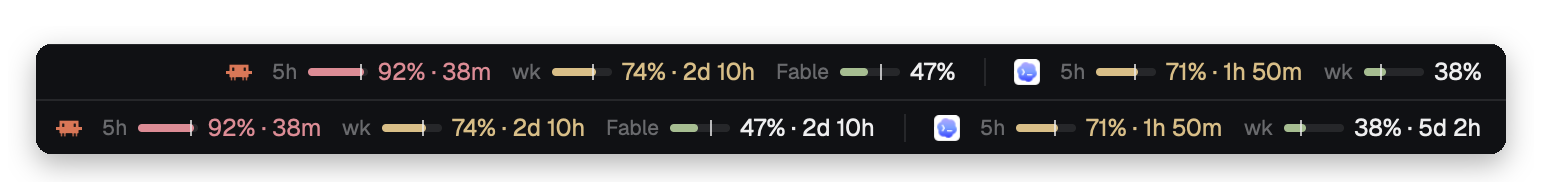
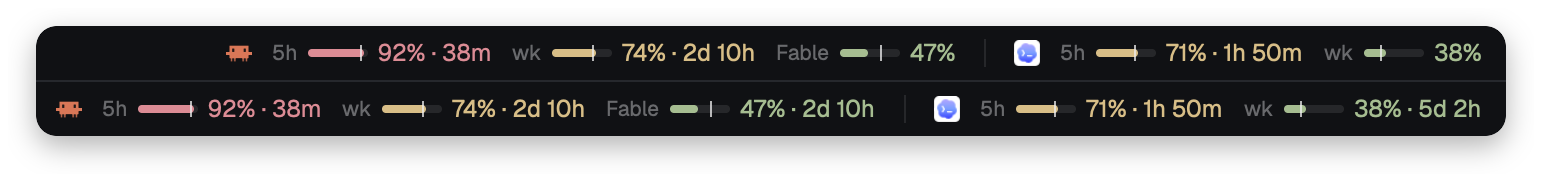
docs: new screenshots for the denser panel and colored percents
Claude-Session: https://claude.ai/code/session_01RxGX2diawmGKELtVSzaZVm

diff --git a/RECIPE.md b/RECIPE.md
@@ -20,15 +20,15 @@ It never reads a token.
   - a 30×4px bar, track `border`, fill = percent used;
   - a 1×8px `foreground` tick at 75% opacity = how much of the window's time
     has passed (pace);
-  - the percent in `foreground`.
+  - the percent in its color.
 - Colors by percent: under 70 `ansi2` (green), 70–89 `ansi3` (amber), 90+
   `ansi1` (red). Amber and red also color the text and add the time to reset:
   `92% · 38m`, `74% · 2d 10h`. With "Always show time to reset" ticked, green
   windows add it too.
 - Hover the limits: one panel above the bar, the only way in (no click), right-aligned, after 350 ms. Each
-  provider with its plan and "updated N min ago", then per window its long
-  name, a bar with the tick, the percent, and below them the time to reset,
-  the local clock and the pace verdict (`2d 4h · Fri 14:00 · on pace`). It
+  provider with its plan as a small badge and "updated N min ago", then one
+  line per window: its long name, a bar with the tick, the percent and the
+  time to reset. The percent always wears its color, green included. It
   shows everything, whatever is hidden from the bar. A failing
   provider shows why in red and its last reading dimmed, with its age. ↻
   refreshes.
@@ -40,7 +40,8 @@ It never reads a token.
   provider is fetched. Session numbers join the bar when ticked (`ctx 24%`,
   `⇄ 32`, `▼ 2`), off by default.
 - ⚙ swaps the panel, in place, to settings: a checkbox per provider and, under
-  it, per window; "Always show time to reset" (off by default); a footnote on
+  it, per window; "Always show time to reset" (off by default); "Show bars" (on by default, off
+  leaves numbers only); a footnote on
   where data comes from. ← swaps back, and it opens on limits again next time.
   ↻ has a 30 s cooldown.
 

diff --git a/README.md b/README.md
@@ -49,7 +49,7 @@ From amber on, you also see the time left until the limit resets.
 ## Hover for everything
 
 <p align="center">
-  <img src="assets/card.png" width="440" alt="The hover panel: the current session's context, calls and compactions, then each provider with its plan and last update and a bar, percent, time to reset, reset clock and pace for every limit, with refresh and settings buttons">
+  <img src="assets/card.png" width="440" alt="The hover panel: the current session's context, calls and compactions, then each provider with its plan and last update and one line per limit with a bar, percent and time to reset, with refresh and settings buttons">
 </p>
 
 Rest the pointer on the limits. The panel shows every limit, when it resets and whether
@@ -65,13 +65,14 @@ when you switch terminals:
 ## Choose what the bar shows
 
 <p align="center">
-  <img src="assets/settings.png" width="440" alt="The settings side of the panel: a back arrow, a checkbox per provider and per limit, Always show time to reset, and checkboxes for the session's context, calls and compactions">
+  <img src="assets/settings.png" width="440" alt="The settings side of the panel: a back arrow, a checkbox per provider and per limit, Always show time to reset, Show bars, and checkboxes for the session's context, calls and compactions">
 </p>
 
 Click ⚙ in the panel. The checkboxes only change the bar: the panel always shows everything.
 
 - **Claude, Codex and their limits** are on by default. Untick what you don't watch.
 - **Always show time to reset** adds the time to every limit, green ones too.
+- **Show bars** keeps a bar beside each limit. Untick it for numbers only.
 - **This session** puts the numbers on the bar: `ctx` for context, `⇄` for calls, `▼` for compactions.
 
 <p align="center">
